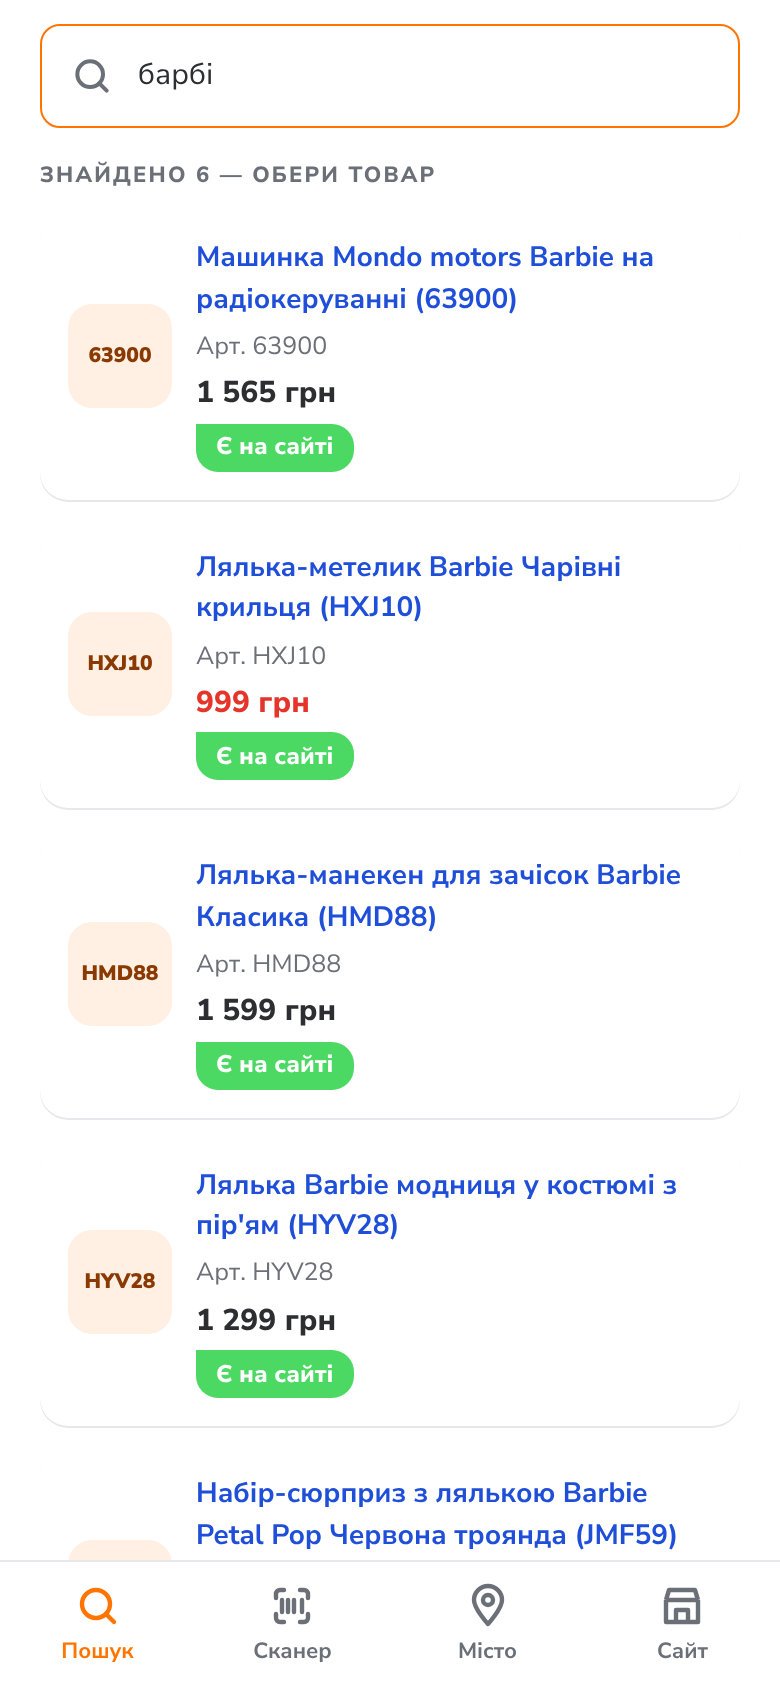
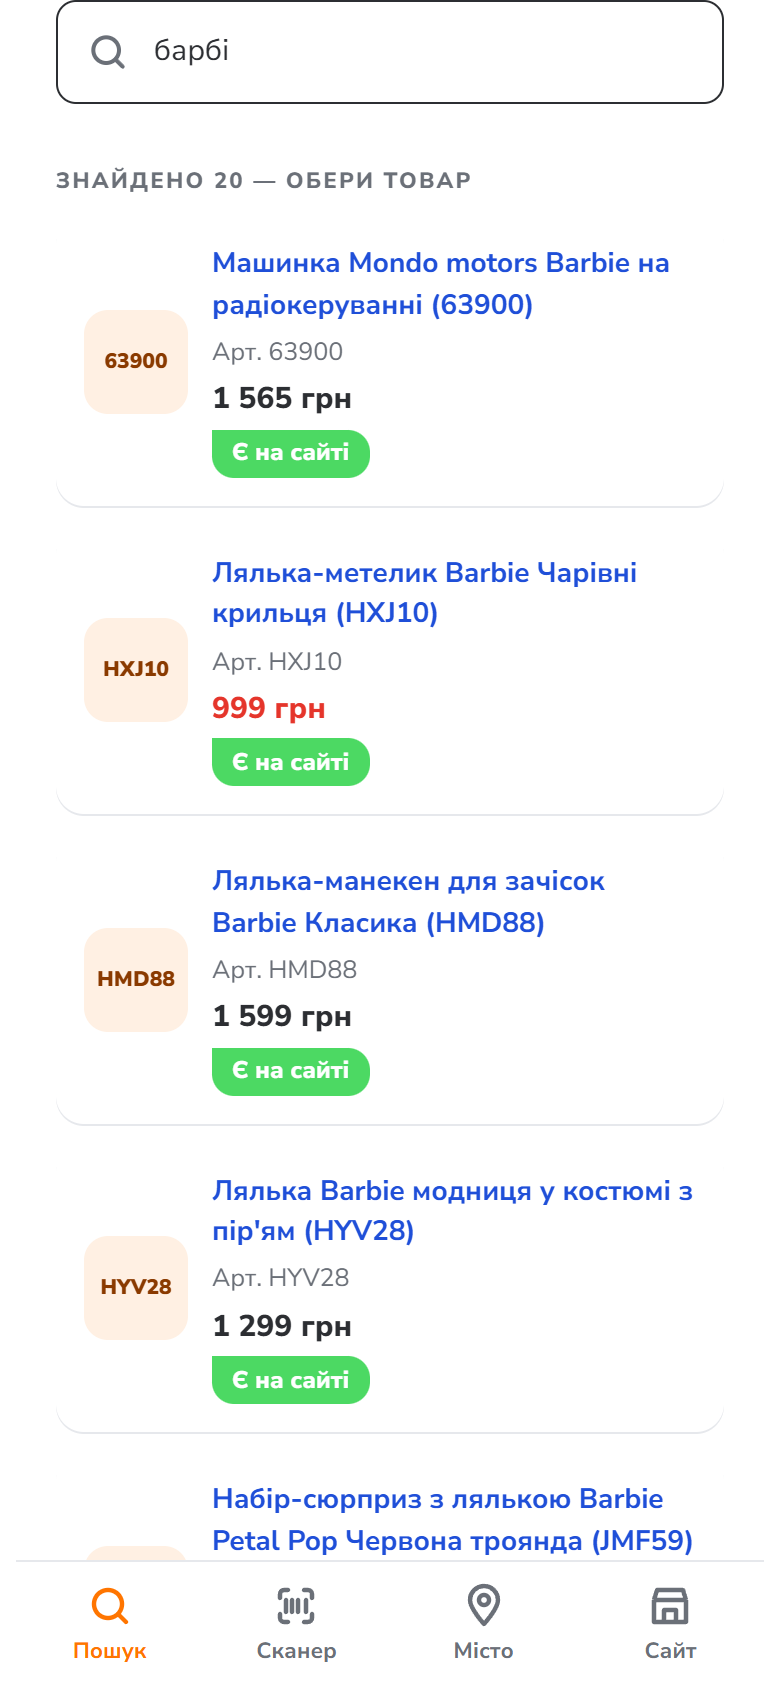
Фирменный логотип «Чудо Острів», новые скриншоты и PROJECT.md
- docs/logo.svg/png: оригинальный логотип с chudo-ostriv.com.ua
- Android: логотип в шапке главного экрана (VectorDrawable из SVG),
  иконка приложения — кольцо с «О» из логотипа на белом фоне
- веб-версия: тот же логотип; исправлено — нижняя панель перекрывала
  кнопку сканера (.tabbar[hidden] не скрывался из-за display:grid)
- скриншоты пересняты на живых данных сайта, PROJECT.md переработан

diff --git a/app/src/main/java/ua/chudo/scanner/ui/home/HomeScreen.kt b/app/src/main/java/ua/chudo/scanner/ui/home/HomeScreen.kt
@@ -51,10 +51,7 @@ import androidx.compose.ui.graphics.Color
 import androidx.compose.ui.platform.LocalContext
 import androidx.compose.ui.platform.LocalSoftwareKeyboardController
 import androidx.compose.ui.res.painterResource
-import androidx.compose.ui.text.SpanStyle
-import androidx.compose.ui.text.buildAnnotatedString
 import androidx.compose.ui.text.input.ImeAction
-import androidx.compose.ui.text.withStyle
 import androidx.compose.ui.text.style.TextOverflow
 import androidx.compose.ui.unit.dp
 import androidx.lifecycle.compose.collectAsStateWithLifecycle
@@ -98,20 +95,13 @@ fun HomeScreen(
     ) {
         item {
             Row(verticalAlignment = Alignment.CenterVertically) {
-                Image(
-                    painterResource(R.drawable.logo_mark),
-                    contentDescription = null,
-                    modifier = Modifier.size(48.dp),
-                )
-                Spacer(Modifier.width(12.dp))
                 Column(Modifier.weight(1f)) {
-                    Text(
-                        buildAnnotatedString {
-                            append("Чудо")
-                            withStyle(SpanStyle(color = MaterialTheme.colorScheme.primary)) { append("Скан") }
-                        },
-                        style = MaterialTheme.typography.headlineMedium,
+                    Image(
+                        painterResource(R.drawable.logo_wordmark),
+                        contentDescription = "Чудо Острів",
+                        modifier = Modifier.height(44.dp),
                     )
+                    Spacer(Modifier.height(4.dp))
                     Text(
                         "Наявність іграшок у магазинах",
                         style = MaterialTheme.typography.bodyMedium,

diff --git a/PROJECT.md b/PROJECT.md
@@ -1,56 +1,69 @@
 <p align="center">
-  <img src="docs/logo.png" alt="ЧудоСкан" width="360">
+  <img src="docs/logo.png" alt="Чудо Острів" width="420">
 </p>
 
-<p align="center"><b>Сканер наличия игрушек в магазинах «Чудо Острів»</b><br>
-Штрихкод, артикул или фото упаковки → цена, наличие онлайн и в магазинах твоего города.</p>
+<h3 align="center">ЧудоСкан — наличие игрушек в магазинах «Чудо Острів»</h3>
+
+<p align="center">Штрихкод, артикул или фото упаковки → цена, наличие онлайн и в магазинах вашего города.</p>
 
 <p align="center">
-  <a href="#скачать"><b>Android</b></a> ·
-  <a href="#скачать"><b>iOS</b></a> ·
-  <a href="#скачать"><b>Веб-версия</b></a>
+  <a href="https://github.com/Nikifor3663636/chudoskan/releases/download/v2.0/chudoskan-2.0.apk"><b>⬇ Скачать APK для Android</b></a> ·
+  <a href="#скачать"><b>Все платформы</b></a> ·
+  <a href="#как-устроено"><b>Как устроено</b></a>
 </p>
 
-![ЧудоСкан — экраны](docs/screenshots/showcase.png)
+![ЧудоСкан — экраны приложения](docs/screenshots/showcase.png)
 
-> Неофициальное приложение. Данные берутся с публичного сайта chudo-ostriv.com.ua;
-> название и логотип ЧудоСкан — собственные, не связаны с сетью «Чудо Острів».
+> Приложение сети «Чудо Острів». Данные — с сайта [chudo-ostriv.com.ua](https://chudo-ostriv.com.ua).
+> Логотип «Чудо Острів» — товарный знак сети.
 
 ## Что умеет
 
-- **Сканер штрихкодов.** EAN-13 / EAN-8 / UPC с упаковки. Камера в приложении, фото или вставка из буфера в веб-версии.
-- **Поиск по артикулу и названию.** `TK735N`, `10698`, `барбі` — карточка появляется прямо под полем, пока вводишь.
-- **Наличие в реальных магазинах.** 29 городов, по каждому магазину «Є / Немає» и сводка «Є в 2 з 4».
-- **Штрихкод, которого сайт не знает.** Ищем в открытой базе UPCitemdb, достаём артикул, приложение запоминает твой выбор.
-- **Фото товару** (Android). ChatGPT определяет бренд и артикул по упаковке, если штрихкода нет.
-- **Фото товаров, цена, скидка, описание**, кнопка «Відкрити на сайті».
-- Светлая и тёмная тема.
+| | |
+|---|---|
+| 📷 **Сканер штрихкодов** | EAN-13 / EAN-8 / UPC с упаковки: камера в приложении, фото или вставка из буфера в веб-версии. |
+| 🔎 **Поиск по артикулу и названию** | `TK735N`, `10698`, `барбі` — карточка появляется прямо под полем, пока вводите. |
+| 🏬 **Наличие в магазинах** | 29 городов, по каждому магазину «Є / Немає» и сводка «Є в 2 з 4». |
+| 🧩 **Штрихкод, которого нет на сайте** | Ищем в открытой базе UPCitemdb, достаём артикул, приложение запоминает выбор. |
+| 🤖 **Фото товару** (Android) | ChatGPT определяет бренд и артикул по упаковке, если штрихкода нет. |
+| 🛍 **Карточка товара** | Фото, цена, скидка, описание, кнопка «Відкрити на сайті». |
+| 🌙 **Светлая и тёмная тема** | Следует настройке телефона. |
 
 ## Скриншоты
 
-| Главный | Карточка при вводе | Полная карточка | Список результатов |
+| Главный экран | Карточка при вводе | Полная карточка | Поиск по названию |
 |:-:|:-:|:-:|:-:|
-| ![](docs/screenshots/01-home.png) | ![](docs/screenshots/02-live-card.png) | ![](docs/screenshots/03-product.png) | ![](docs/screenshots/04-search-list.png) |
+| <img src="docs/screenshots/01-home.png" width="200"> | <img src="docs/screenshots/02-live-card.png" width="200"> | <img src="docs/screenshots/03-product.png" width="200"> | <img src="docs/screenshots/04-search-list.png" width="200"> |
 
 | Сканер | Выбор города | Тёмная тема |
 |:-:|:-:|:-:|
-| ![](docs/screenshots/05-scanner.png) | ![](docs/screenshots/06-city.png) | ![](docs/screenshots/07-live-card-dark.png) |
+| <img src="docs/screenshots/05-scanner.png" width="200"> | <img src="docs/screenshots/06-city.png" width="200"> | <img src="docs/screenshots/07-live-card-dark.png" width="200"> |
 
 Веб-версия на компьютере:
 
 ![ЧудоСкан на компьютере](docs/screenshots/00-overview-desktop.png)
 
-<sub>Скриншоты сняты с веб-версии на настоящих данных сайта от 09.11.2026 (TK735N, поиск «барбі», Одеса).</sub>
+<sub>Скриншоты сняты с веб-версии на настоящих данных сайта 09.11.2026: артикул TK735N, поиск «барбі», город Одеса.</sub>
 
 ## Скачать
 
 | Платформа | Статус | Ссылка |
 |---|---|---|
-| **Android** (APK) | версия 2.0 | [chudoskan-2.0.apk](https://github.com/Nikifor3663636/chudoskan/releases/download/v2.0/chudoskan-2.0.apk) · [релиз v2.0](https://github.com/Nikifor3663636/chudoskan/releases/tag/v2.0) |
+| **Android** (APK) | ✅ версия 2.0 | [chudoskan-2.0.apk](https://github.com/Nikifor3663636/chudoskan/releases/download/v2.0/chudoskan-2.0.apk) · [релиз v2.0](https://github.com/Nikifor3663636/chudoskan/releases/tag/v2.0) |
 | **Android** (Google Play) | не опубликовано | `GOOGLE_PLAY_URL` |
 | **iOS** (App Store / TestFlight) | в планах | `APP_STORE_URL` |
 
-Файл страницы лежит в `web/chudoskan.html`.
+### Установка на Android
+
+1. Откройте ссылку на APK на телефоне и скачайте файл.
+2. Разрешите установку из этого источника (Android спросит сам).
+3. Нажмите «Установить». Нужен Android 8.0 или новее.
+
+Если стоит версия 1.0, собранная на том же компьютере, 2.0 встанет поверх и сохранит ключ OpenAI.
+Если Android пишет «приложение не установлено» — удалите старую версию и поставьте заново.
+
+### Веб-версия
+
 
 ## Как устроено
 
